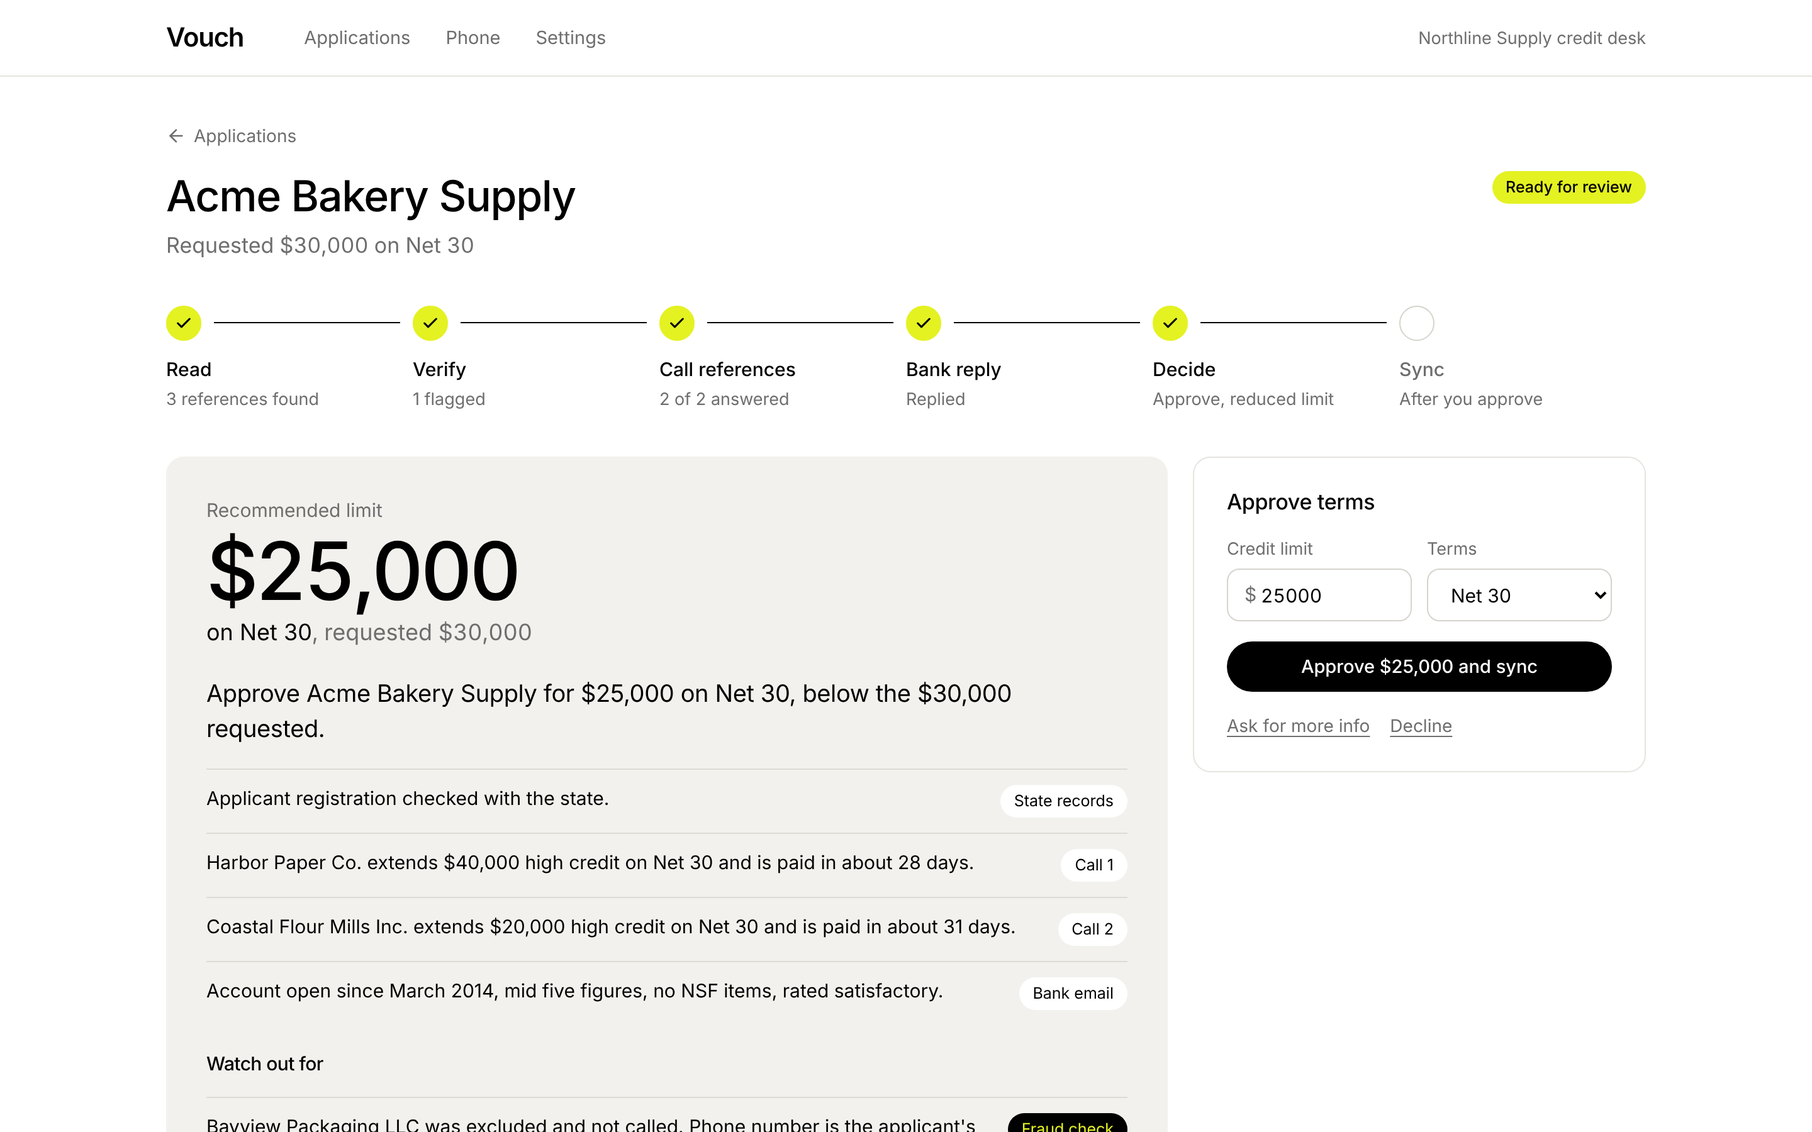
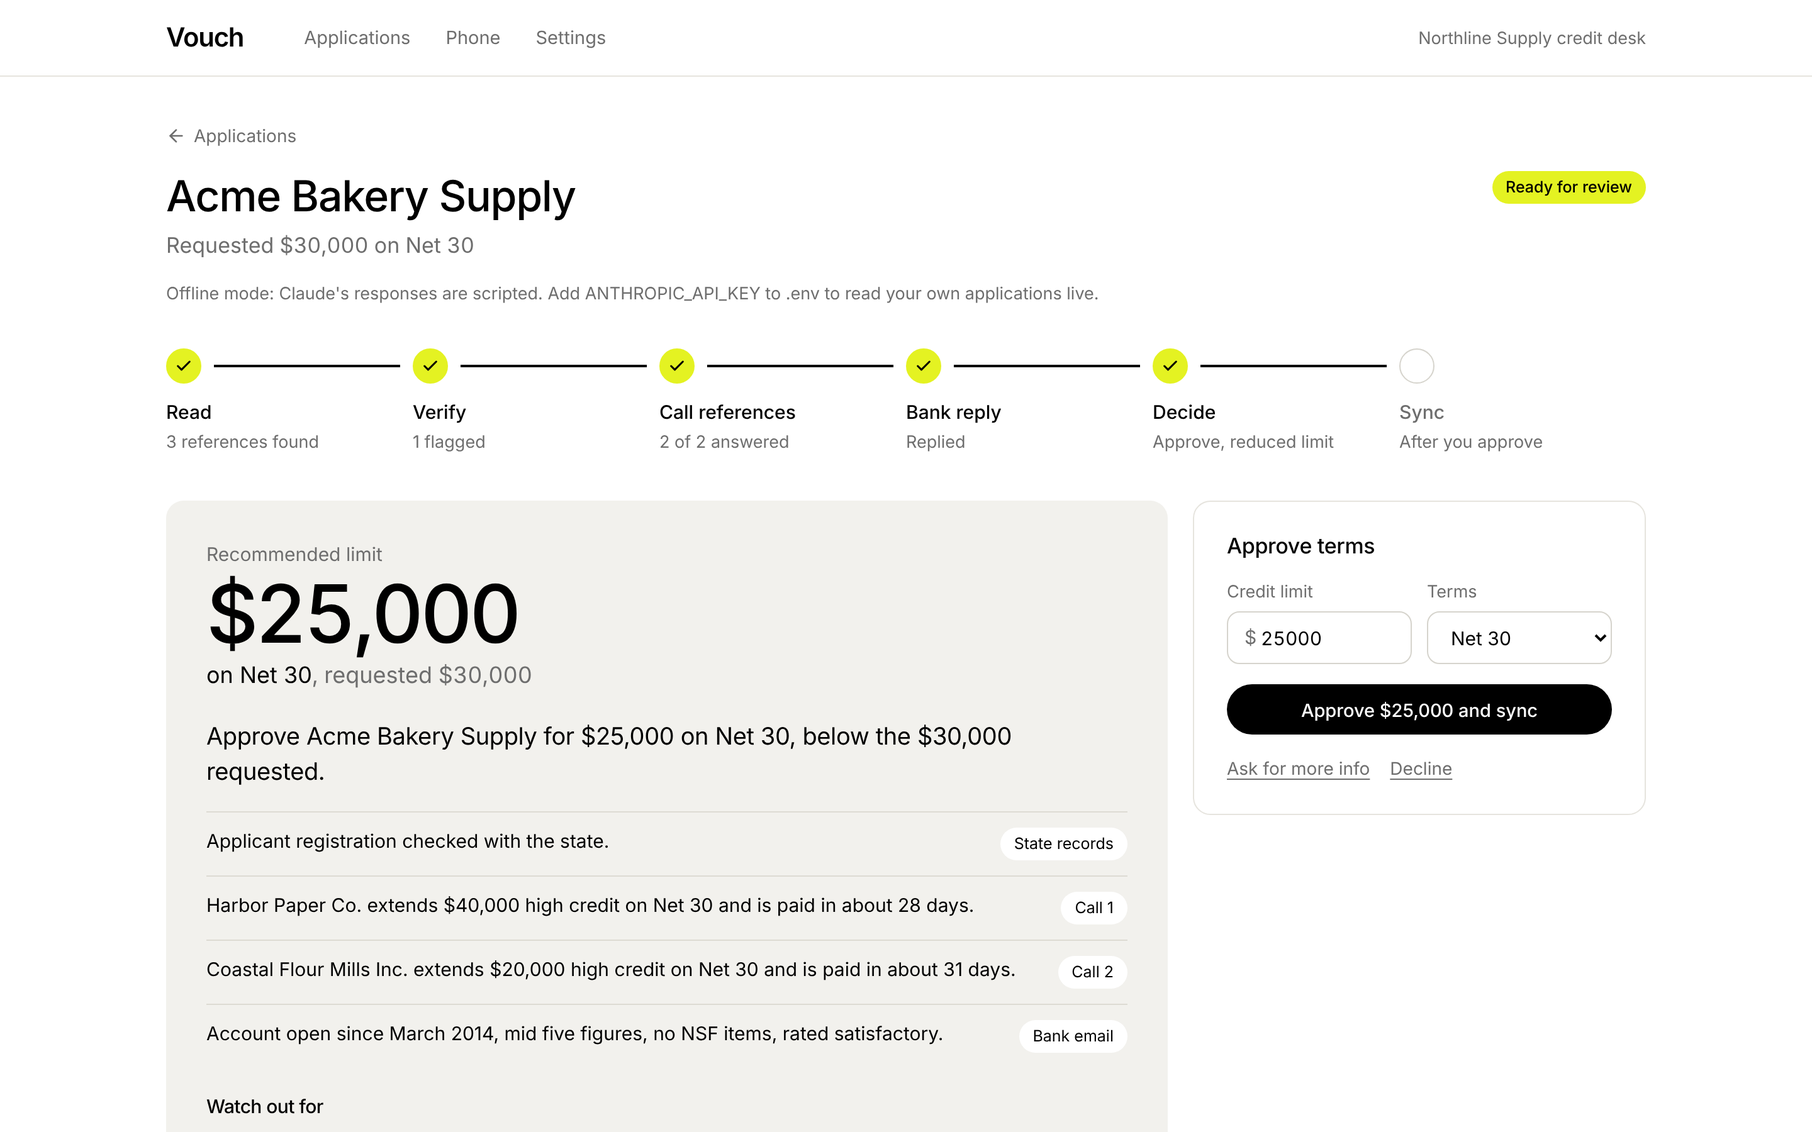
Ready the repo for Round 2: judges' quick start, real vs simulated, current screenshots and demo script
Claude-Session: https://claude.ai/code/session_01NM6KoTXPDUC1iJr78iyMSy

diff --git a/docs/demo-script.md b/docs/demo-script.md
@@ -1,72 +1,115 @@
-# Demo script (3 to 5 minutes)
+# Demo script (about 5 minutes)
 
-Two people: one drives the review screen, one plays the reference on the phone. Before recording, run `make reset` and start Vouch.
+Two people: one drives the screen and narrates, the other plays Harbor Paper's Linda Park on a real phone call. Coastal Flour Mills always runs on the simulated line, so its callback shows on screen without a second phone.
 
-For a real phone call, use `CALL_CHANNEL=twilio` with `DEMO_REFERENCE_PHONE` set to the second person's phone and `REAL_CALL_LIMIT=1`, so Harbor Paper rings the phone and Coastal Flour Mills runs simulated. Each reference's call panel also has a **Line** switch. Without Twilio, open **Phone** in a second browser window and pick **Browser phone** on the review screen.
+## Setup
+
+- `.env` has `ANTHROPIC_API_KEY`, `CALL_CHANNEL=twilio`, the three Twilio keys, `PUBLIC_BASE_URL`, `DEMO_REFERENCE_PHONE` (the second person's cell), `REAL_CALL_LIMIT=1`, and `PRESENTER_MODE=true`.
+- `make reset`, so Vouch has no history from practice runs.
+- Window 1: `make tunnel`, and check that its URL matches `PUBLIC_BASE_URL`. Window 2: `make start`, then open http://localhost:8000. Settings should show Twilio as configured.
+
+Without Twilio, leave `CALL_CHANNEL=simulated`: every reference is played by Claude from `backend/vouch/fixtures/personas.json`, and Harbor's first call reaches voicemail before a retry connects.
+
+**Presenter mode.** Vouch pauses before checking references, before calling, and before emailing the bank. A button at the top right names the next step; click it or press the right arrow key when the narration gets there. The script marks those moments **[Press →]**.
 
 ## 1. The problem (0:00 to 0:30)
 
-On the Applications page:
+Screen: the empty Applications page.
 
-> When a new business customer asks for Net 30, someone in finance retypes their application, emails their bank, and calls three references who rarely pick up. Vouch does all of that.
+> Picture a supplier's finance team. A new business customer wants to buy on Net 30, and before anyone says yes, somebody has to vet them. That means retyping a PDF application, emailing their bank, and calling three trade references who almost never pick up. It takes days. And because nobody has time to dig in, fake references get right through.
+>
+> So we built Vouch. It's five AI agents working as a team. One reads the application, one checks every reference for fraud, one calls them, one emails the bank, and one writes the credit memo. Let's run one.
 
-## 2. Read the scan (0:30 to 1:00)
+## 2. Reading the scan (0:30 to 1:00)
 
-New application, then upload `samples/acme-bakery-supply-credit-application.pdf` (or run the sample). Open the Application section to show the extracted fields beside the scan.
+Screen: **New application**, drag in `samples/acme-bakery-supply-credit-application.pdf`. Reading takes 10 to 20 seconds. Open the Application tab to show the fields next to the scan. Vouch then pauses on "Check the references."
 
-> This is a scanned, hand-filled form. Claude reads it directly, into a typed schema, including the three trade references and the bank.
+> Here's a credit application, scanned and filled out by hand, the way they actually show up. Claude is reading it right now, straight from the image. There's no OCR step. We make it answer in a strict format, so every field comes back as clean data, and if anything doesn't check out, it gets sent back to fix it.
+>
+> And there we go. Acme Bakery Supply, asking for thirty thousand dollars on Net 30, with their bank and three trade references.
 
-## 3. Catch the fake reference (1:00 to 1:45)
+## 3. Catching the fake reference (1:00 to 1:45)
 
-References section: Harbor and Coastal score 99, Bayview Packaging scores 1 and is flagged. Its evidence list is already open.
+Screen: the References tab, cards marked "Not checked yet."
 
-> Every reference gets an authenticity score. For Bayview, caller ID and Google both list its phone number to Acme, the applicant. It was registered 23 days ago, at Acme's address, and its only officer is Acme's owner. Vouch won't call it.
+> Before Vouch calls anyone, it checks whether these references are even real.
 
-Open Harbor's evidence list.
+**[Press →]** The cards fill in: Harbor and Coastal at 99, Bayview Packaging at 1 and flagged, with its reasons open.
 
-> Harbor scores 99 for the opposite reasons. The carrier's caller ID says Harbor Paper, Google lists the number at Harbor's address, and IPQualityScore's fraud model rates it 6 out of 100. Each line names its source, and the weights live in the credit policy file, so we can tell an applicant exactly why a reference didn't count.
+> This is our fraud model. For every reference, it pulls almost thirty signals from seven places: state business records, when the company's website was registered, the company's own site, who the phone carrier says owns the number, who Google lists at that number, IPQualityScore's fraud score for it, and everything Vouch has seen before. Each signal pushes the score up or down by a set amount. It's the same kind of model that's behind credit scores, and it lands on a number from one to ninety-nine.
+>
+> So look at Bayview. It scores a one. Caller ID and Google both say its phone number belongs to Acme, the applicant itself. Bayview was registered twenty-three days ago, at Acme's address, and its only officer is Acme's owner. That's a fake reference, and Vouch won't call it.
+>
+> Harbor Paper is the opposite. Ninety-nine. The number's listed to Harbor, they've been registered for fifteen years, and the fraud score is six out of a hundred. And every one of these reasons is right here, with where it came from.
+
+Keep it accurate: the demo companies are fictional, so their records come from sandbox data and the cards say "(sandbox)." The weights are set by hand today, so call it a logistic scorecard, not a trained model.
 
 ## 4. The live call (1:45 to 3:00)
 
-Harbor Paper rings the phone. (On the simulated line, its first attempt reaches voicemail: the panel shows the greeting, the short message Vouch left, and the retry countdown. Click **Call now** if you don't want to wait.) If the real call goes to voicemail, Vouch leaves the same message instead of starting the interview. The second person answers as Linda Park:
+Screen: Calls. Harbor Paper's line says Real phone.
 
-- "This is Linda in accounts receivable. Sure, go ahead."
-- When it checks that you handle Acme's account and have the details: "Yes, I handle their account. Let me pull it up, one second. Okay, I have it in front of me."
-- Customer since 2022, Net 30.
-- High credit about forty thousand, owes around twelve thousand four hundred.
-- Nothing past due, pays in about 28 days.
-- Yes, would extend more.
+> So let's call the two references that checked out.
 
-> It says up front that it's an AI on a recorded line, and before any credit questions it confirms it's talking to someone who handles Acme's account and has the details in front of them. The fields on the right fill in while she talks.
+**[Press →]** The phone rings a few seconds later. Let the call play.
 
-## 4b. The follow-up (3:00 to 3:20)
+> Vouch is dialing Harbor Paper right now, on a real phone line. Listen to how it opens: it says it's an AI and that the call is recorded. And before it asks a single question, it makes sure it's talking to the right person.
 
-Scroll to Coastal Flour Mills. Raj was busy and asked to be called back tomorrow morning. The panel reads "Calling back tomorrow at 10:00 AM PST."
+Linda's lines (the memo's numbers depend on them; the agent words its questions its own way, so answer the topic it asks about):
 
-> References rarely pick up the first time. Vouch hangs up politely, books the callback for the time Raj asked for, in his time zone, and the memo waits for it. If nobody answers twice, it tries again the next business morning. For the demo, I'll pull tomorrow forward.
+| When the agent asks about | Linda says |
+|---|---|
+| Having two minutes | "This is Linda in accounts receivable. Sure, go ahead." |
+| Whether you handle Acme's account and have the details | "Yes, I handle their account. Let me pull it up, one second. Okay, I have it in front of me." |
+| How long, and what terms | "They've bought from us on credit since 2022, on Net 30." |
+| High credit and balance | "High credit is about forty thousand. Right now they owe around twelve thousand four hundred." |
+| Past due and days to pay | "Nothing is past due. They pay in about 28 days on average." |
+| Extending more credit | "Yes, we'd happily extend more. Good customer, they order every week." |
+| Its read-back | "That's right." |
 
-Click **Call now**. Raj answers this time and gives his numbers.
+After the call:
 
-## 5. The bank (3:00 to 3:20)
+> So what just happened under the hood? Twilio turns Linda's voice into text and streams it to Claude Haiku, which streams its answer straight back as speech. It stops talking the moment she cuts in. And that credit file on the right filled itself in while she was talking. That's a second model listening along. Once the call ends, Claude re-reads the whole transcript and only keeps numbers Linda actually said.
+>
+> And if nobody had picked up? Vouch recognizes the voicemail, leaves a quick message, and tries again later.
 
-Bank section: the request email and the reply, read into account age, balances, and NSF history.
+## 5. The follow-up (3:00 to 3:30)
 
-## 6. The memo and approval (3:20 to 4:30)
+Screen: Coastal Flour Mills (simulated line). Its first call ran while Linda was on the phone: Raj asked for a callback, and the panel reads "Calling back tomorrow at 10:00 AM."
 
-Decision card: $25,000 on Net 30, below the $30,000 requested.
+> Meanwhile, Vouch called Coastal Flour Mills too. Raj was signing for a delivery and asked us to call back tomorrow morning. So Vouch said no problem, hung up, and booked it for ten a.m. tomorrow, in Raj's own time zone. And if someone misses two calls in a row, it tries again the next business morning.
+>
+> All of this runs on a workflow engine we built to handle waiting on people. Every step is saved, so even if the server restarts tonight, that callback still happens tomorrow, and the memo waits for it. We can't wait until tomorrow, though, so I'll pull it forward.
 
-> Every number comes from the credit policy file, and every sentence links to its source. Here's how the limit was set: average high credit from two verified references, times 85 percent, rounded down.
+Click **Call now**. Raj answers on the simulated line: customer since 2019, Net 30, high credit $20,000, nothing past due, about 31 days to pay.
 
-Click a source chip to jump to the transcript. Approve, then show the customer created in QuickBooks with Net 30 terms and the limit in the notes.
+## 6. The bank (3:30 to 3:50)
 
-## 7. Close (4:30 to 5:00)
+> Last piece: the bank.
 
-> Next: with the applicant's consent, Ramp's own payment data could answer a reference check instantly, so the calls become the fallback.
+**[Press →]** The Bank tab opens. The request appears right away and the simulated reply about 8 seconds later, both tagged "Outbox, not sent."
 
-## Questions to be ready for
+> Vouch emails them a reference request. And when the bank writes back, Claude reads the reply and pulls out what matters: the account's been open since 2014, balances are in the mid five figures, no overdrafts in a year, and there's a hundred-and-fifty-thousand-dollar credit line in good standing.
 
-- **Why not let Claude decide the limit?** Credit decisions need repeatable, explainable reasons. Policy computes; Claude explains and cites.
-- **What if a reference won't talk to an AI?** The agent offers to take a written request and records the email; that reference is marked declined and the memo says so.
-- **Recording consent?** Disclosed in the first sentence of every call.
-- **What happens if the server restarts mid-call?** The workflow state is in SQLite; the call is marked failed and retried, everything else resumes.
-- **Cost per application?** A handful of Sonnet calls for reading and writing plus Haiku for the calls: well under a dollar, plus Twilio minutes.
+## 7. The memo and approval (3:50 to 4:40)
+
+Screen: the decision card: approve $25,000 on Net 30, below the $30,000 requested. Open "How the limit was set," then click a source chip to jump to Linda's transcript.
+
+> With everything in, here's the memo. Vouch recommends twenty-five thousand on Net 30, a little less than the thirty they asked for.
+>
+> Here's the part we care about most: the AI didn't pick that number. Our credit policy did, and it's just code. The two good references extend thirty thousand on average. Policy takes eighty-five percent of that. They pay on time, so there's no cut. Round it down, and you get twenty-five thousand.
+>
+> Claude writes the explanation, but every sentence has to point to its source, and we check every one of those links. If it cites something that doesn't exist, it gets thrown out. So I can click any of these and land right on the moment in the call where it came from.
+
+Click **Approve $25,000 and sync.**
+
+> One click, and Acme's a customer in QuickBooks, on Net 30, with the approved limit right there in their record.
+
+(In the demo this writes to the local ledger; connect a QuickBooks sandbox in Settings to show the real customer.)
+
+## 8. Close (4:40 to 5:00)
+
+Screen: the Applications page, Acme marked synced.
+
+> So that's Vouch. Days of retyping, emailing and phone tag, down to a few minutes and one click. A fraud model that caught the fake reference before anyone picked up the phone, and a credit policy you can explain to anyone who asks.
+>
+> And here's where it goes next. With the customer's permission, payment data a company like Ramp already has could answer these reference checks instantly, and the phone calls just become the backup.

diff --git a/README.md b/README.md
@@ -2,9 +2,34 @@
 
 Vouch is an AI credit desk for B2B net terms. A customer sends in a credit application, and Vouch reads it, checks the business and its references against public records, phones each trade reference, emails the bank, and hands a credit analyst a finished memo with a recommended limit. The analyst approves in one click and the customer is created in QuickBooks.
 
-Built by team AwesomeSauce for the BBS × Ramp Hackathon (Fall 2026).
+Built by team AwesomeSauce (Aditya and Tommy) for the BBS × Ramp Hackathon (Fall 2026).
+
+**Demo video:** [watch the 5-minute demo](DEMO_VIDEO_URL)
 
 ![Review screen with the recommended limit and cited evidence](docs/screenshots/review.png)
+
+## Try it in two minutes
+
+No API keys needed. With Python 3.10+ and Node 18+:
+
+```bash
+make setup    # backend virtualenv, frontend packages, .env
+make dev      # open http://localhost:5173
+```
+
+Click **New application**, then **Run** on Acme Bakery Supply. Without a key, Claude's parts run from scripted responses for the two bundled samples, and the whole pipeline plays out in a minute or two: Bayview Packaging is flagged as a fake reference, Harbor Paper's first call reaches voicemail and the retry connects, and Coastal Flour Mills asks to be called back tomorrow morning. Click **Call now** on Coastal's panel to pull that forward; then the bank replies and the memo recommends $25,000 against the $30,000 requested. Add `ANTHROPIC_API_KEY` to `.env` and restart to run it with Claude, including on your own scans. `make test` runs the 80 backend tests.
+
+### What's real and what's simulated
+
+| Real in the demo | Simulated, and labeled as such in the app |
+|---|---|
+| Claude Sonnet 5.5 reading the hand-filled scan | The demo companies are fictional, so their state records, domains, websites and phone records come from a sandbox file, marked "(sandbox)" |
+| The authenticity scorecard and every rule behind it | Coastal Flour Mills' reference, played by Claude from a persona (`REAL_CALL_LIMIT=1` keeps the real phone line to one call) |
+| The voice agent on a real phone call through Twilio ConversationRelay, answered by a teammate | The bank's reply email (the request goes to an outbox, not sent) |
+| Voicemail detection, callback scheduling, and the durable workflow engine | QuickBooks, which writes to a local ledger unless a sandbox company is connected in Settings |
+| The credit policy math and the memo's checked citations | |
+
+With keys set, the same code calls OpenCorporates, RDAP, IPQualityScore, Twilio Lookup and Google Places for real companies, sends email over SMTP, and creates the customer in a QuickBooks sandbox.
 
 ## The problem
 
@@ -43,7 +68,7 @@ flowchart LR
 
 ![Reference checks: two references score 99, the fake one scores 1 and is flagged](docs/screenshots/reference-checks.png)
 
-![A live reference call with the credit file filling in](docs/screenshots/live-call.png)
+![A live reference call: the agent checks it has the right person, and the credit file fills in as she talks](docs/screenshots/live-call.png)
 
 ## Design decisions
 
@@ -76,13 +101,13 @@ Requirements: Python 3.10+, Node 18+. macOS: `brew install python@3.12 node`.
 
 ```bash
 make setup        # backend virtualenv, frontend packages, .env
-# add ANTHROPIC_API_KEY to .env
+# add ANTHROPIC_API_KEY to .env (optional: without it, Vouch runs offline)
 make dev          # http://localhost:5173
 ```
 
-Click **New application**, then run the **Acme Bakery Supply** sample. In a minute or two Vouch reads the scan, flags Bayview Packaging (registered 23 days ago, on the applicant's own phone line and address, sharing the applicant's owner as an officer), calls Harbor Paper (voicemail, then a retry that connects) and Coastal Flour Mills (Raj asks for a callback tomorrow morning; click **Call now** on his panel to pull it forward), gets the bank's reply, and recommends $25,000 on Net 30 against the $30,000 requested. Approve it and the customer is written to the ledger (or QuickBooks).
+Run the **Acme Bakery Supply** sample as above. Vouch reads the scan, flags Bayview Packaging (registered 23 days ago, on the applicant's own phone line and address, sharing the applicant's owner as an officer), calls Harbor Paper and Coastal Flour Mills, gets the bank's reply, and recommends $25,000 on Net 30. Approve it and the customer is written to the ledger (or QuickBooks). The second sample, Ridgeline Cafe Group, is a clean file where one reference only gives written references.
 
-For a recorded or live demo, set `PRESENTER_MODE=true`: Vouch pauses before checking references, before calling, and before emailing the bank, and a Next button (or the right arrow key) moves it on, so the app keeps pace with your narration.
+For a recorded or live demo, set `PRESENTER_MODE=true`: Vouch pauses before checking references, before calling, and before emailing the bank, and a Next button (or the right arrow key) moves it on, so the app keeps pace with your narration. `docs/demo-script.md` is the script we recorded with.
 
 Without an API key, Vouch runs in offline mode: scripted responses that work only with the two bundled samples. This is also how the test suite runs.
 
@@ -113,7 +138,7 @@ Create an app at developer.intuit.com, add `http://localhost:8000/api/integratio
 make test
 ```
 
-The backend suite (79 tests, about 25 seconds, no API key) covers the workflow engine (waits, signals, retries, timeouts, restart recovery), the fraud rules and credit policy math, full application runs for both samples, the REST API, the browser phone and Twilio ConversationRelay protocols over real WebSockets, Twilio webhook signature checks, TwiML generation, how the Claude client handles the 5.5 models' tool-choice rules, and the failure paths of a live call: Twilio refusing to dial, a busy signal while dialing, a late answer on a call that already ended, a reference hanging up halfway, and Claude erroring in the middle of a reply.
+The backend suite (80 tests, about 25 seconds, no API key) covers the workflow engine (waits, signals, retries, timeouts, restart recovery), the fraud rules and credit policy math, full application runs for both samples, the REST API, the browser phone and Twilio ConversationRelay protocols over real WebSockets, Twilio webhook signature checks, TwiML generation, how the Claude client handles the 5.5 models' tool-choice rules, and the failure paths of a live call: Twilio refusing to dial, a busy signal while dialing, a late answer on a call that already ended, a reference hanging up halfway, and Claude erroring in the middle of a reply.
 
 `make smoke` is the live check: with your API key it has Claude read both sample scans and compares every field with the answer key, then runs one application end to end.
 
@@ -123,8 +148,9 @@ The backend suite (79 tests, about 25 seconds, no API key) covers the workflow e
 backend/vouch/
   engine.py            durable step engine (SQLite)
   workflow.py          the credit check graph and its step handlers
-  calls.py             call placement, ConversationRelay session, simulated reference
-  agents/              extraction, verification, voice, bank, decision
+  calls.py             call placement, ConversationRelay session, voicemail, simulated reference
+  followup.py          callback times ("tomorrow morning") and next-day follow-ups
+  agents/              extraction, verification, authenticity scoring, voice, bank, decision
   providers/           registry/domain/website lookups, Twilio, email, QuickBooks/ledger
   policy/credit_policy.yaml
   fixtures/            sample answer keys, sandbox records, reference personas
